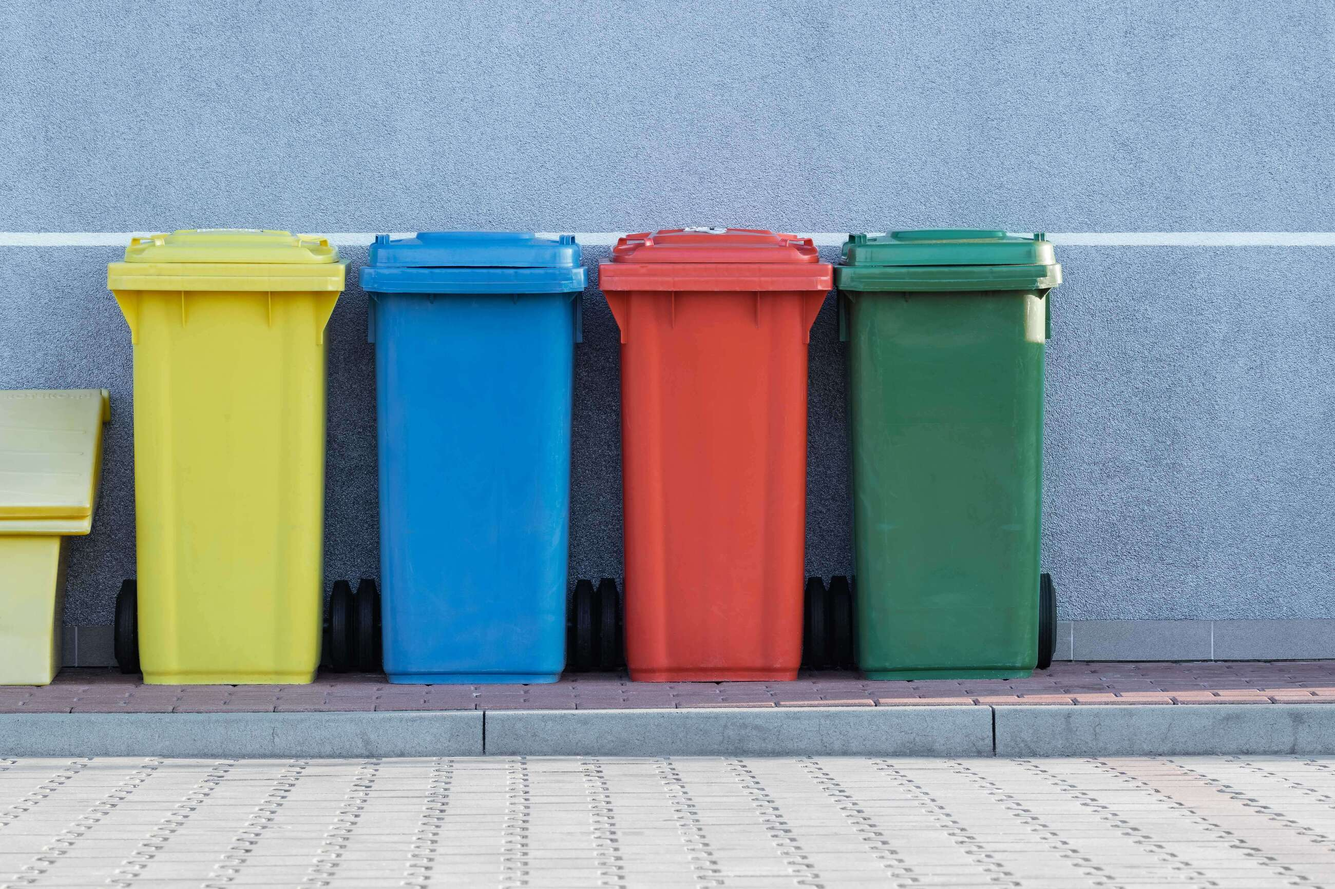
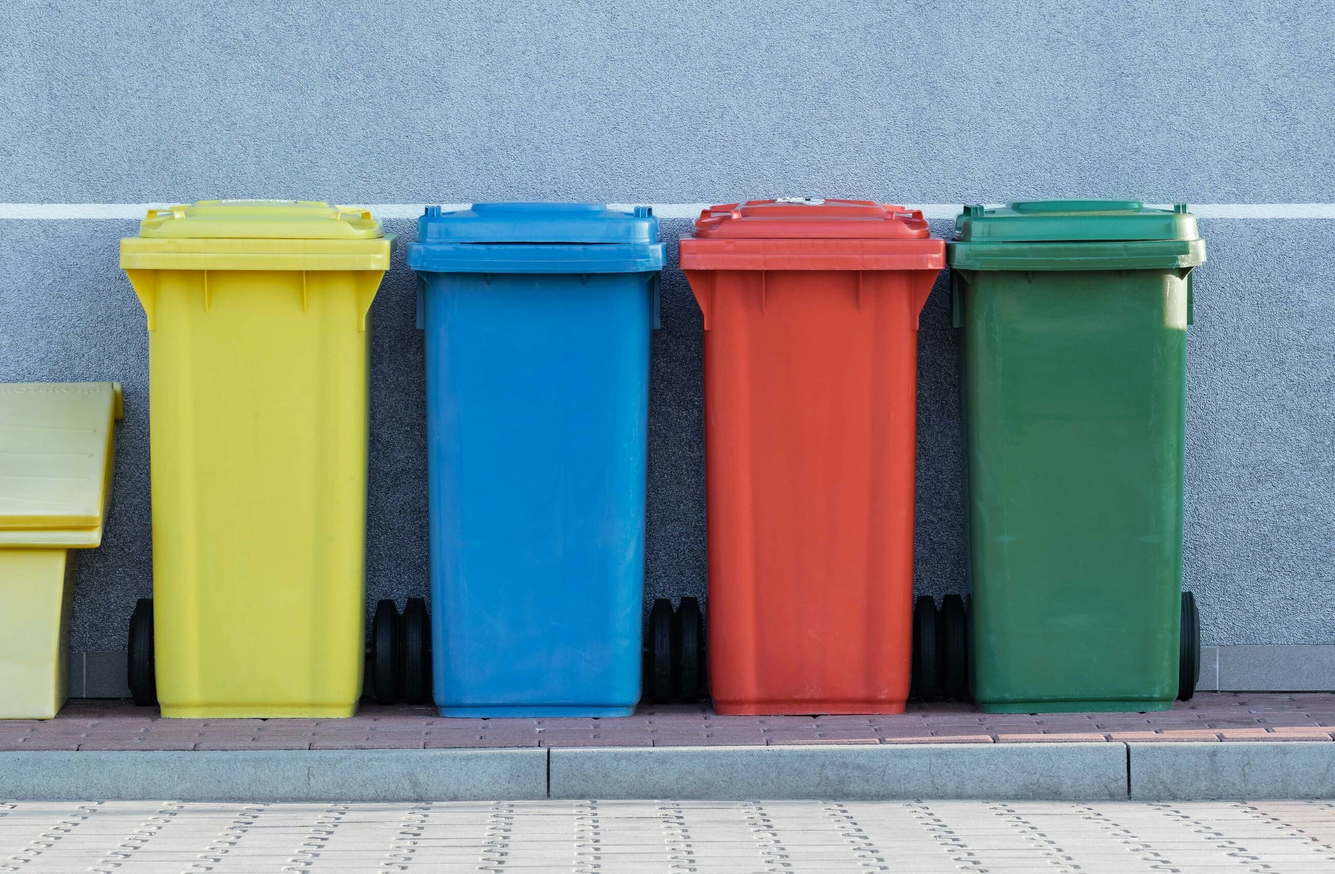
(lietadla2)

diff --git a/src/components/EntranceModal3.vue b/src/components/EntranceModal3.vue
@@ -36,7 +36,7 @@ export default {
 
 .coverphoto {
     background: linear-gradient(180deg, rgba(206, 206, 206, 0.54) 5.41%, rgba(1, 1, 1, 0) 100%),url('../assets/background-odpady.jpg');
-    background-position: 45% 50%;
+    background-position: 50% 40%;
     background-size: cover;
     overflow: auto;
 }
